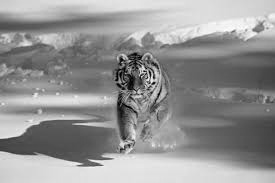
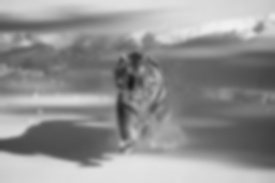
creation filterList + switch case not finish

diff --git a/MEES/src/main/java/com/company/imagefilter/App.java b/MEES/src/main/java/com/company/imagefilter/App.java
@@ -5,10 +5,16 @@ import org.bytedeco.opencv.opencv_core.Mat;
 import java.io.File;
 
 import java.lang.String;
+import java.util.ArrayList;
+import java.util.List;
 
 public class App {
    static Log l = new Log();
+   static List<Filter> filterList = new ArrayList<>();
     public static void main(String[] args) {
+
+        filterList.add(new Blur());
+        filterList.add(new BlackAndWhite());
 
 
         try {
@@ -16,9 +22,12 @@ public class App {
         } catch (ParseException e) {
             e.printStackTrace();
         }
+
+
+
     }
 
-    public static void treatment(String file, String output, String filters) {
+    public static void treatment(String file, String output, String filters, Mat image) {
 
         File directory = new File(file);
         if (directory.isDirectory())
@@ -32,15 +41,36 @@ public class App {
                     if (String.valueOf(listFile[i]).contains(".png") == true ||
                             String.valueOf(listFile[i]).contains(".jpg") == true)
                     {
-                        Mat image = opencv_imgcodecs.imread(String.valueOf(listFile[i]));
-                        BlackAndWhite bw = new BlackAndWhite();
+                        image = opencv_imgcodecs.imread(String.valueOf(listFile[i]));
+                       // BlackAndWhite bw = new BlackAndWhite();
+                        String filterArg = "blur|grayscale";
+                        String[] split = filterArg.split("\\|");
+
+                        for ( String s : split){
+                            switch(s) {
+                                case "blur" :
+                                    filterList.add(new Blur());
+                                    break;
+                                case "grayscale" :
+                                    filterList.add(new BlackAndWhite());
+                                    break;
+                                case "dilate" :
+                                    filterList.add(new Dilate());
+                                    break;
+                            }
+                        }
+
                         try {
-                            Mat result = bw.filterGrayscale(image, l);
+
+                            for(Filter f : filterList) {
+                                image = f.process(image);
+                            }
+                           // Mat result = bw.filterGrayscale(image, l);
 
                             File outputDir = new File("Modifiated");
                             File outputFile = new File(outputDir, "output.jpg");
 
-                            opencv_imgcodecs.imwrite(outputFile.getAbsolutePath(), result);
+                            opencv_imgcodecs.imwrite(outputFile.getAbsolutePath(), image);
                         } catch (JavaCVHelperException e) {
                             e.printStackTrace();
                             System.out.println("le filtre n'a pas pu etre appliqué");
@@ -80,7 +110,7 @@ public class App {
         }
         System.out.println("file = " + file + " fileModificate = " + fileModificate + " filters = " + filters);
 
-        treatment(file, fileModificate, filters);
+        treatment(file, fileModificate, filters, );
     }
 }
 

diff --git a/MEES/src/main/java/com/company/imagefilter/Dilate.java b/MEES/src/main/java/com/company/imagefilter/Dilate.java
@@ -7,18 +7,23 @@ import org.opencv.imgproc.Imgproc;
 import static org.bytedeco.opencv.global.opencv_imgproc.dilate;
 import static org.bytedeco.opencv.global.opencv_imgproc.getStructuringElement;
 
-public class Dilate {
-    public Mat filterDilate(Mat image, Log l) throws JavaCVHelperException {
-        int size = 8;
-        Mat result = image.clone();
-        Mat element = getStructuringElement(Imgproc.MORPH_RECT, new Size(2 * size + 1, 2 * size + 1));
-        dilate(image, result, element);
-        l.Log(" image " + image + "\n" + "filtre : " + Dilate.class.getSimpleName() + "\n");
+public class Dilate extends Filter {
+   // public Mat filterDilate(Mat image, Log l) throws JavaCVHelperException {
+        @Override
+        Mat process(Mat image) throws JavaCVHelperException {
 
-        if (result == null) {
-            throw new JavaCVHelperException("la dilatation ne marche pas");
 
+            int size = 8;
+            Mat result = image.clone();
+            Mat element = getStructuringElement(Imgproc.MORPH_RECT, new Size(2 * size + 1, 2 * size + 1));
+            dilate(image, result, element);
+            App.l.Log(" image " + image + "\n" + "filtre : " + Dilate.class.getSimpleName() + "\n");
+
+            if (result == null) {
+                throw new JavaCVHelperException("la dilatation ne marche pas");
+
+            }
+            return result;
         }
-        return result;
+
     }
-}

diff --git a/MEES/src/main/java/com/company/imagefilter/Filter.java b/MEES/src/main/java/com/company/imagefilter/Filter.java
@@ -3,21 +3,21 @@ package com.company.imagefilter;
 import org.bytedeco.opencv.global.opencv_imgcodecs;
 import org.bytedeco.opencv.opencv_core.Mat;
 
-public class Filter {
-    void Filter (){
-        String filename = "toModificate/index.jpg";
-        Mat image = opencv_imgcodecs.imread(filename);
-        BlackAndWhite bw = new BlackAndWhite();
-        try {
-            bw.filterGrayscale(image, App.l);
-        } catch (JavaCVHelperException e) {
-            e.printStackTrace();
-            System.out.println("le filtre n'a pas pu etre appliqué");
-        }
-        System.out.println("L'application du filtre à bien marché");
+public abstract  class Filter {
+   abstract Mat process (Mat image) throws JavaCVHelperException;
+//        String filename = "toModificate/index.jpg";
+//        Mat image = opencv_imgcodecs.imread(filename);
+//        BlackAndWhite bw = new BlackAndWhite();
+//        try {
+//            bw.filterGrayscale(image, App.l);
+//        } catch (JavaCVHelperException e) {
+//            e.printStackTrace();
+//            System.out.println("le filtre n'a pas pu etre appliqué");
+//        }
+//        System.out.println("L'application du filtre à bien marché");
     }
 
-}
+
 
 
 

diff --git a/MEES/src/main/java/com/company/imagefilter/Blur.java b/MEES/src/main/java/com/company/imagefilter/Blur.java
@@ -5,17 +5,22 @@ import org.bytedeco.opencv.opencv_core.Size;
 
 import static org.bytedeco.opencv.global.opencv_imgproc.GaussianBlur;
 
-public class Blur {
-    public Mat filterBlur(Mat image, Log l) throws JavaCVHelperException  {
-        int size = 3;
-        Mat result = image.clone();
-        GaussianBlur(image, result, new Size(size, size), 0);
+public class Blur extends Filter  {
+//    public Mat filterBlur(Mat image, Log l) throws JavaCVHelperException  {
+//
 
-        l.Log(" image " + image + "\n" + "filtre : " + Blur.class.getSimpleName() + "\n");
+    @Override
+    Mat process(Mat image) throws JavaCVHelperException {
+            int size = 11;
+            Mat result = image.clone();
+            GaussianBlur(image, result, new Size(size, size), 0);
 
-        if (result == null) {
-            throw new JavaCVHelperException("le flou ne marche pas");
+            App.l.Log(" image " + image + "\n" + "filtre : " + Blur.class.getSimpleName() + "\n");
 
-        }return result;
-    }
-}
+            if (result == null) {
+                throw new JavaCVHelperException("le flou ne marche pas");
+
+            }return result;
+        }
+        }
+

diff --git a/MEES/src/main/java/com/company/imagefilter/BlackAndWhite.java b/MEES/src/main/java/com/company/imagefilter/BlackAndWhite.java
@@ -5,23 +5,29 @@ import org.bytedeco.opencv.opencv_core.Mat;
 import org.opencv.core.CvType;
 import org.opencv.imgproc.Imgproc;
 
+import javax.annotation.processing.Filer;
 import java.io.FileWriter;
 import java.io.IOException;
 
 import static org.bytedeco.opencv.global.opencv_imgproc.cvtColor;
 
-public class BlackAndWhite {
-    public Mat filterGrayscale (Mat image, Log l) throws JavaCVHelperException {
+public class BlackAndWhite extends Filter {
+   // public Mat filterGrayscale (Mat image, Log l) throws JavaCVHelperException {
+
+
+   // }
+
+    @Override
+    Mat process(Mat image) throws JavaCVHelperException {
         Mat result = new Mat(image.rows(), image.cols(), CvType.CV_8UC3);
         cvtColor(image, result, Imgproc.COLOR_RGB2GRAY);
 
-         l.Log(" image " + image + "\n" + "filtre : " + BlackAndWhite.class.getSimpleName() + "\n");
+        App.l.Log(" image " + image + "\n" + "filtre : " + BlackAndWhite.class.getSimpleName() + "\n");
 
 
         if (result == null) {
             throw new JavaCVHelperException("le noir et blanc ne marche pas" );
 
         }return result;
-
     }
 }
